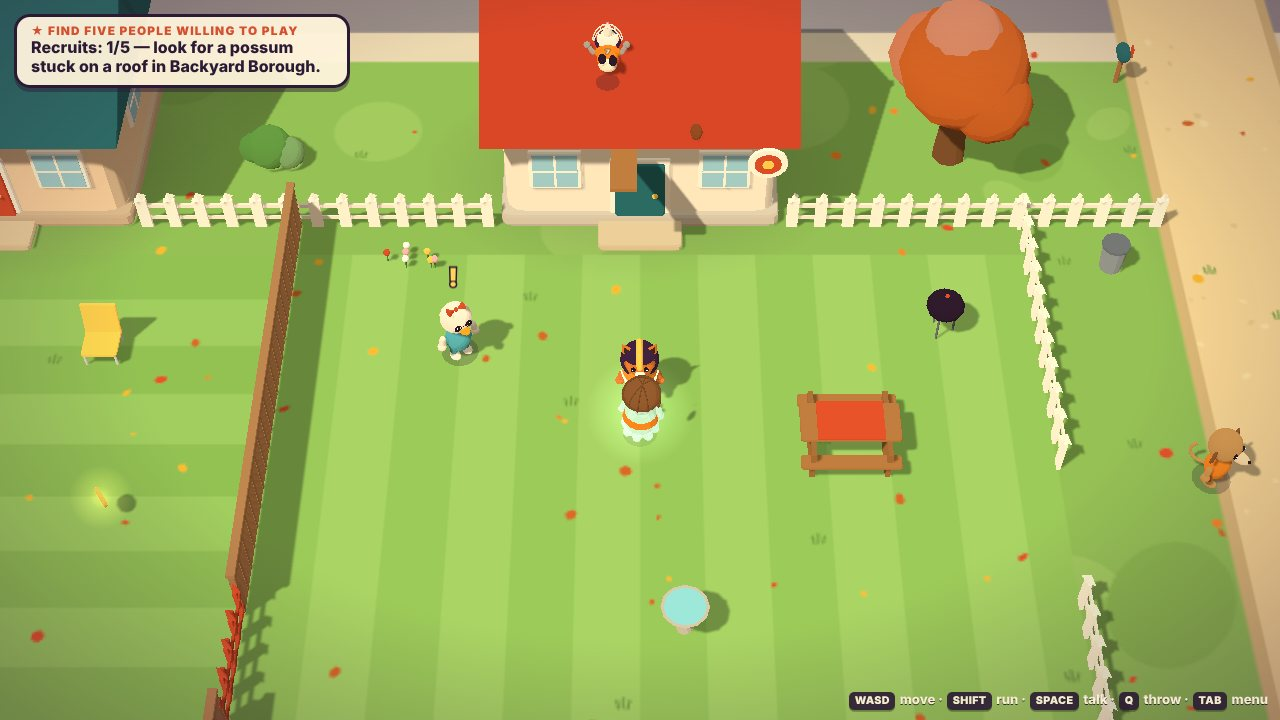
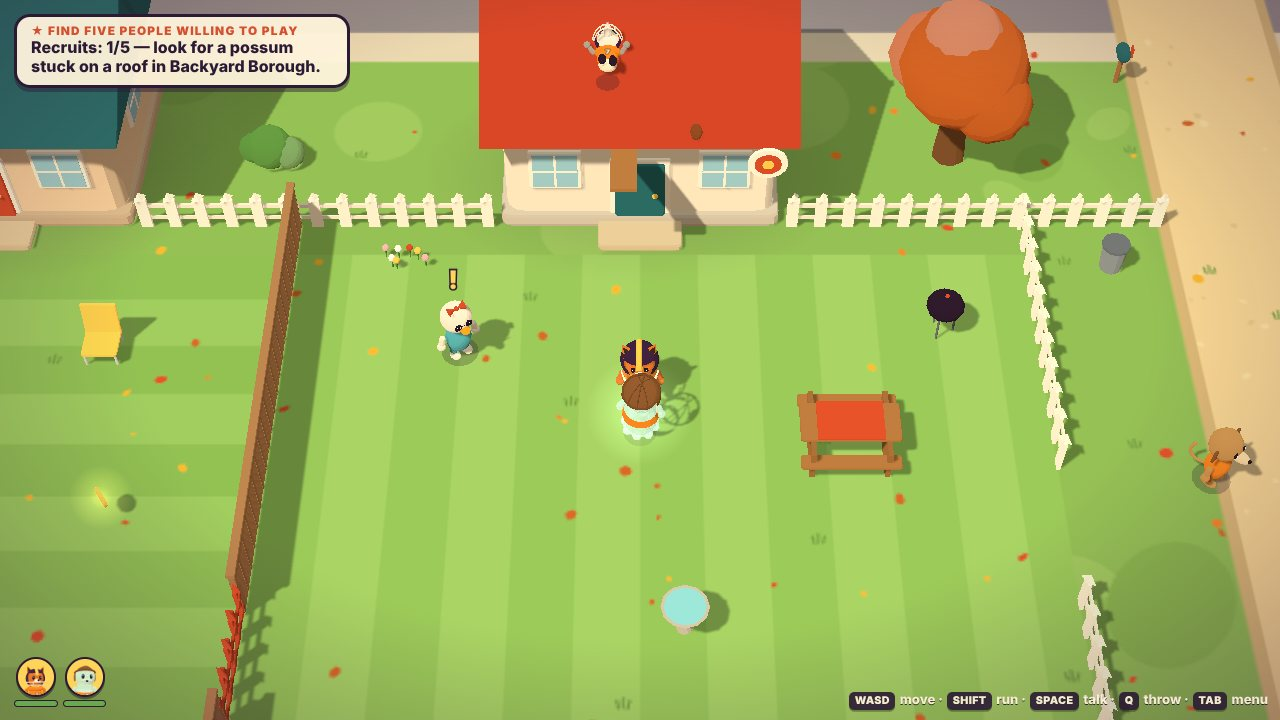
Fourth & Fable: memory leak fixes, linebacker default, HUD and QA additions
- fix: every uniformed character leaked two jersey-number geometries, and
  dialogue portraits leaked their throwaway model; character disposal is
  now thorough and shared geometry is flagged so it survives
- memory.cjs: asserts live GPU objects settle across area hops and drives
- on defense you start as the linebacker with the safety still deep
- AI teammates intercept contested passes less often; sharper opponents
  have surer hands; last two rivals retuned
- beaten roaming teams come back after sleeping or a bus ride
- letterboxed scenes hide the overworld HUD; dialogue.cjs drives the real
  dialogue UI through the clubhouse intro
- corn stalks use four shared heights; screenshots refreshed

Claude-Session: https://claude.ai/code/session_01C6rFEQ1N6SSTNxFfsVG42t

diff --git a/fable/src/art/characters.js b/fable/src/art/characters.js
@@ -3,7 +3,7 @@
 // animal, ghost, gnome, scarecrow, snowman, robot or the lantern mascot, and
 // animated by a small pose-blending animator (no keyframe data).
 import * as THREE from 'three';
-import { toon, flat, lit, sphere, cyl, cone, capsule, torus, box, rbox, circle, M, group, canvasTex, textTex, glowSprite, shade, bake } from './kit.js';
+import { toon, flat, lit, sphere, cyl, cone, capsule, torus, box, rbox, circle, plane, M, group, canvasTex, textTex, glowSprite, shade, bake, disposeTree } from './kit.js';
 import { TAU, clamp, lerp, damp, rand, wrapAngle } from '../core/util.js';
 
 const BUILDS = {
@@ -44,7 +44,7 @@ export const SPECIES = {
 
 const HC = 0.36; // head centre above the neck pivot
 const geoCache = new Map();
-const tubeArc = (key, make) => { let g = geoCache.get(key); if (!g) { g = make(); geoCache.set(key, g); } return g; };
+const tubeArc = (key, make) => { let g = geoCache.get(key); if (!g) { g = make(); g.userData.shared = true; geoCache.set(key, g); } return g; };
 
 function maskBar(y, rx, rz, t0, t1, r = 0.022) {
   return tubeArc(`mb:${y}:${rx}:${rz}:${t0}:${t1}:${r}`, () => {
@@ -399,9 +399,9 @@ export class Character {
       body.add(hip);
       if (spec.number !== undefined) {
         const nm = numberMat(spec.number, spec.numC || '#fff4dc', spec.numS || '#2b1a33');
-        const back = new THREE.Mesh(new THREE.PlaneGeometry(0.34, 0.34), nm);
+        const back = new THREE.Mesh(plane(0.34, 0.34), nm);
         back.position.set(0, 0.7 * B.ty, -0.31 * B.tz); back.rotation.y = Math.PI;
-        const front = new THREE.Mesh(new THREE.PlaneGeometry(0.28, 0.28), nm);
+        const front = new THREE.Mesh(plane(0.28, 0.28), nm);
         front.position.set(0, 0.68 * B.ty, 0.31 * B.tz);
         body.add(back, front);
       }
@@ -598,7 +598,7 @@ export class Character {
       body.add(band);
       if (spec.number !== undefined) {
         const nm = numberMat(spec.number, '#fff4dc', '#2b1a33');
-        const p = new THREE.Mesh(new THREE.PlaneGeometry(0.22, 0.22), nm); p.position.set(0, 0.74, 0.45); body.add(p);
+        const p = new THREE.Mesh(plane(0.22, 0.22), nm); p.position.set(0, 0.74, 0.45); body.add(p);
       }
     }
     const mk = (s) => {
@@ -632,7 +632,7 @@ export class Character {
     body.add(torso); this.torso = torso;
     if (spec.jersey) {
       body.add(M(cyl(0.345, 0.36, 0.3, 16, true), toon(spec.jersey, { side: THREE.DoubleSide }), 0, 0.98, 0));
-      if (spec.number !== undefined) { const p = new THREE.Mesh(new THREE.PlaneGeometry(0.22, 0.22), numberMat(spec.number, '#fff4dc', '#2b1a33')); p.position.set(0, 0.98, 0.36); body.add(p); }
+      if (spec.number !== undefined) { const p = new THREE.Mesh(plane(0.22, 0.22), numberMat(spec.number, '#fff4dc', '#2b1a33')); p.position.set(0, 0.98, 0.36); body.add(p); }
     }
     for (let i = 0; i < 2; i++) body.add(M(sphere(0.04, 6, 5), toon(0x2b2b36), 0, 0.5 + i * 0.2, 0.42 - i * 0.03, { shadow: false }));
     const mk = (s) => {
@@ -667,7 +667,7 @@ export class Character {
     body.add(torso); this.torso = torso;
     body.add(M(box(0.67 * B.tx, 0.07, 0.47 * B.tz), neonM, 0, 0.5 * B.ty, 0, { shadow: false }));
     if (spec.jersey) body.add(M(rbox(0.68 * B.tx, 0.3 * B.ty, 0.48 * B.tz, 0.08), toon(spec.jersey), 0, 0.8 * B.ty, 0));
-    if (spec.number !== undefined) { const p = new THREE.Mesh(new THREE.PlaneGeometry(0.24, 0.24), numberMat(spec.number, '#ffffff', '#1b1024')); p.position.set(0, 0.8 * B.ty, 0.245 * B.tz); body.add(p); }
+    if (spec.number !== undefined) { const p = new THREE.Mesh(plane(0.24, 0.24), numberMat(spec.number, '#ffffff', '#1b1024')); p.position.set(0, 0.8 * B.ty, 0.245 * B.tz); body.add(p); }
     const mk = (s) => {
       const arm = new THREE.Group();
       arm.add(M(cyl(0.065, 0.065, 0.3, 8), shell, 0, -0.16, 0));
@@ -692,7 +692,7 @@ export class Character {
     const head = new THREE.Group(); head.position.y = 1.02 * B.ty; body.add(head); this.head = head;
     const hc = group(0, 0.34, 0); head.add(hc); this.hc = hc;
     hc.add(M(rbox(0.8, 0.62, 0.6, 0.12), shell));
-    const screen = new THREE.Mesh(new THREE.PlaneGeometry(0.62, 0.44), new THREE.MeshBasicMaterial({ map: robotFace(neon, 'open'), toneMapped: false }));
+    const screen = new THREE.Mesh(plane(0.62, 0.44), new THREE.MeshBasicMaterial({ map: robotFace(neon, 'open'), toneMapped: false }));
     screen.position.set(0, 0, 0.305);
     hc.add(screen);
     this.screen = screen; this.neon = neon;
@@ -979,7 +979,7 @@ export class Character {
   }
 
   dispose() {
-    this.root.traverse((o) => { if (o.userData.baked && o.geometry) o.geometry.dispose(); });
+    disposeTree(this.root);          // baked meshes and one-off materials; shared geometry is left alone
     this.root.removeFromParent();
   }
 }

diff --git a/fable/src/data/teams.js b/fable/src/data/teams.js
@@ -108,17 +108,17 @@ export const TEAMS = {
     squad: squad(8.2, [{ name: 'COIN-OP', spec: robot(8) }, { name: 'TILT', spec: robot(74, 0xffd45a, 'big') }, { name: 'PIXEL', spec: robot(82, 0xb6f08a) }, { name: 'SPRITE', spec: robot(86, 0xb6f08a) }, { name: 'JOYSTICK', spec: robot(31) }]),
   },
   buzzers: {
-    name: 'Boardwalk Buzzers', short: 'BUZZ', color: '#4a3ad6', level: 9, iq: 0.74, xp: 150, coins: 0, rival: true,
+    name: 'Boardwalk Buzzers', short: 'BUZZ', color: '#4a3ad6', level: 9, iq: 0.8, xp: 150, coins: 0, rival: true,
     hazard: 'flicker', tackleStatus: ['glitch', 0.3],
     off: { pass: ['cpu_outs', 'cpu_deep', 'cpu_cross', 'cpu_slants'], run: ['cpu_dive', 'cpu_sweep'], runRate: 0.42 }, def: ['man_lock', 'zone_blanket', 'double_trouble', 'blitz_party', 'fence_line'],
     squad: squad(9, [{ name: 'HI-SCORE', spec: { kind: 'robot', build: 'big', neon: 0xff5ad0, jersey: 0x4a3ad6, number: 1 }, plus: { arm: 1.4 } }, { name: 'TILT', spec: { kind: 'robot', build: 'huge', neon: 0xffd45a, jersey: 0x4a3ad6, number: 74 }, plus: { str: 1.5 } }, { name: 'TURBO', spec: { kind: 'robot', neon: 0x58e6ff, jersey: 0x4a3ad6, number: 80 }, plus: { spd: 1.2 } }, { name: 'COMBO', spec: { kind: 'robot', neon: 0x58e6ff, jersey: 0x4a3ad6, number: 88 } }, { name: 'BOSS', spec: { kind: 'robot', neon: 0xb6f08a, jersey: 0x4a3ad6, number: 32 }, plus: { str: 1 } }]),
   },
   // ---------------------------------------------------------------- the Midnight Bowl
   graveyard: {
-    name: 'The Graveyard Shift', short: 'SHIFT', color: '#6a5a9a', level: 11, iq: 0.83, xp: 250, coins: 0, rival: true,
+    name: 'The Graveyard Shift', short: 'SHIFT', color: '#6a5a9a', level: 11, iq: 0.9, xp: 250, coins: 0, rival: true,
     hazard: 'fog', tackleStatus: ['spook', 0.3],
     off: { pass: ['cpu_outs', 'cpu_deep', 'cpu_cross', 'cpu_slants'], run: ['cpu_dive', 'cpu_sweep'], runRate: 0.42 }, def: ['man_lock', 'zone_blanket', 'double_trouble', 'blitz_party', 'fence_line'],
-    squad: squad(10.3, [{ name: 'The Captain Before', spec: ghost(1, 0xc9b6f2), plus: { arm: 1 } }, { name: 'Tombstone', spec: { ...ghost(78, 0xb6c9f2), scale: 1.25 }, plus: { str: 2 } }, { name: 'Wisp', spec: ghost(80, 0xd9c6ff), plus: { spd: 1 } }, { name: 'Shiver', spec: ghost(87, 0xd9c6ff) }, { name: 'Moan', spec: ghost(35, 0xc9b6f2) }]),
+    squad: squad(10.6, [{ name: 'The Captain Before', spec: ghost(1, 0xc9b6f2), plus: { arm: 1 } }, { name: 'Tombstone', spec: { ...ghost(78, 0xb6c9f2), scale: 1.25 }, plus: { str: 2 } }, { name: 'Wisp', spec: ghost(80, 0xd9c6ff), plus: { spd: 1 } }, { name: 'Shiver', spec: ghost(87, 0xd9c6ff) }, { name: 'Moan', spec: ghost(35, 0xc9b6f2) }]),
   },
   // ---------------------------------------------------------------- Backyard Blitz (2 on 2)
   acorns: {

diff --git a/fable/src/battle/battle.js b/fable/src/battle/battle.js
@@ -82,7 +82,7 @@ export class Battle extends Mode {
     this.foes = idx.map((i) => { const m = this.team.squad[i]; const e = this._ent(CPU, `cpu${i}`, m.name, m.spec, m.stats); e.slot = i; return e; });
     this.iq = this.team.iq;
     const lvs = [...new Set([...sq[0], ...sq[1]])].map((id) => charState(id).lv);
-    this.mateIq = 0.68 + Math.min(0.24, (lvs.reduce((a, b) => a + b, 0) / lvs.length - 1) * 0.034);
+    this.mateIq = 0.68 + Math.min(0.2, (lvs.reduce((a, b) => a + b, 0) / lvs.length - 1) * 0.034);
 
     // ball + catch rings + first-down marker
     this.ballMesh = buildFootball(1.5);
@@ -470,7 +470,8 @@ export class Battle extends Mode {
       this.userEnt = play.type === 'run' && play.carrier !== 'QB' ? byRole(this.off, play.carrier) : qb;
       this.userMode = 'pre';
     } else {
-      this.userEnt = byRole(this.def, dplay.S === 'robber' ? 'S' : 'S') || this.def[this.def.length - 1];
+      // you start as the linebacker — in the middle of things, with the safety still deep behind you
+      this.userEnt = byRole(this.def, 'LB') || byRole(this.def, 'S') || this.def[this.def.length - 1];
       if (this.size < 5) this.userEnt = this.def[this.def.length - 1];
       this.userMode = 'defender';
     }
@@ -1426,11 +1427,12 @@ export class Battle extends Mode {
     }
     if (this.auto && u && u.team === YOU && dist(u.x, u.z, b.to.x, b.to.z) < 1.8 && chance(0.3)) { this.interception(u, true); return; }
     // AI coverage contests it
-    let pCatch = 0.95 - Math.max(0, 1.7 - dDef) * 0.36 - off * 0.12 + (r.stats.hnd - 5) * 0.03;
+    let pCatch = 0.95 - Math.max(0, 1.7 - dDef) * 0.36 - off * 0.12 + (r.stats.hnd - 5) * 0.03 + (this.iq - 0.5) * 0.2;
     if (this.lightsOut > 0) pCatch -= 0.12;
     pCatch = clamp(pCatch, 0.2, 0.97);
     if (chance(pCatch)) { this.completed(r, 'cpu'); return; }
-    if (nd && dDef < 1.3 && nd.e.team === YOU && chance(0.22 + nd.e.stats.hnd * 0.03)) { this.interception(nd.e, false); return; }
+    // a teammate in tight coverage sometimes comes down with it (your own timed picks are the reliable way)
+    if (nd && dDef < 1.3 && nd.e.team === YOU && chance(0.07 + nd.e.stats.hnd * 0.015)) { this.interception(nd.e, false); return; }
     if (nd && dDef < 1.6) { nd.e.ch.play('catch'); this.pop(nd.e, 'BROKEN UP!', 'cool'); }
     this.incomplete('INCOMPLETE', b.to, r);
   }

diff --git a/fable/src/art/props.js b/fable/src/art/props.js
@@ -7,7 +7,7 @@ import { toon, flat, lit, sphere, cyl, cone, box, rbox, torus, circle, capsule, 
 import { TAU, rand, makeRng } from '../core/util.js';
 
 const geoCache = new Map();
-const cg = (key, make) => { let g = geoCache.get(key); if (!g) { g = make(); geoCache.set(key, g); } return g; };
+const cg = (key, make) => { let g = geoCache.get(key); if (!g) { g = make(); g.userData.shared = true; geoCache.set(key, g); } return g; };
 
 /** Gabled roof prism: ridge along x. */
 export function roofPrism(L, W, H) {
@@ -687,7 +687,7 @@ export function cornBlock(o = {}) {
   const nx = Math.max(1, Math.round(w / gap)), nz = Math.max(1, Math.round(d / gap));
   for (let i = 0; i < nx; i++) for (let j = 0; j < nz; j++) {
     const x = -w / 2 + (i + 0.5) * (w / nx) + r.range(-0.15, 0.15), z = -d / 2 + (j + 0.5) * (d / nz) + r.range(-0.15, 0.15);
-    const h = r.range(2.0, 2.6);
+    const h = 2.0 + Math.floor(r() * 4) * 0.2;
     g.add(M(cyl(0.05, 0.08, h, 5), toon(0x7fae4a), x, h / 2, z));
     g.add(M(cone(0.42, 1.3, 5), toon(0x9fc45a), x, h * 0.6, z, { shadow: false }));
     g.add(M(sphere(0.1, 5, 4), toon(0xf2c23c), x + 0.16, h * 0.62, z, { rz: -0.5, sy: 2.2, shadow: false }));

diff --git a/fable/src/game/town.js b/fable/src/game/town.js
@@ -154,6 +154,7 @@ export async function bed(w) {
   const tod = free ? [S().tod, 'day', 'dusk', 'night'][p] : S().tod;
   await G.fadeOut();
   restAll();
+  G.session.beaten.clear();        // a night's sleep brings the roaming teams back out
   S().tod = tod;
   G.audio.sfx('item');
   w.rebuild();
@@ -244,6 +245,7 @@ export async function travel(w) {
   if (d.id === 'fair' && questActive('welcome_back')) { finishQuest('welcome_back'); startQuest('fair'); }
   if (d.id === 'frost' && !S().quests.frost) startQuest('frost');
   if (d.id === 'neon' && !S().quests.neon) startQuest('neon');
+  G.session.beaten.clear();        // and so does a bus ride
   await w.goto(d.id, d.at ? d.at[0] : undefined, d.at ? d.at[1] : undefined, { sfx: 'door' });
 }
 

diff --git a/fable/styles.css b/fable/styles.css
@@ -214,3 +214,6 @@ p { margin: 0.3em 0; line-height: 1.35; font-weight: 600; }
 .party-strip .pm { width: 2.7em; }
 .party-strip img { width: 2.5em; height: 2.5em; border-radius: 50%; background: var(--gold); border: 0.14em solid var(--ink); display: block; margin: 0 auto; box-shadow: 0 0.14em 0 rgba(27,16,36,0.45); }
 .party-strip .bar { height: 0.46em; margin-top: 0.16em; background: rgba(27,16,36,0.55); }
+
+/* letterboxed scenes: put the HUD away */
+.cine-on .quest-box, .cine-on .wallet, .cine-on .party-strip, .cine-on .help-tag, .cine-on #prompt { display: none !important; }

diff --git a/fable/src/art/kit.js b/fable/src/art/kit.js
@@ -134,7 +134,7 @@ export function disposeTree(root) {
   const cachedGeos = new Set(geoCache.values());
   const cachedMats = new Set(matCache.values());
   root.traverse((o) => {
-    if (o.geometry && !cachedGeos.has(o.geometry)) o.geometry.dispose();
+    if (o.geometry && !cachedGeos.has(o.geometry) && !o.geometry.userData.shared) o.geometry.dispose();
     const mats = Array.isArray(o.material) ? o.material : o.material ? [o.material] : [];
     for (const m of mats) {
       if (cachedMats.has(m) || m.userData.shared) continue;

diff --git a/fable/src/art/portraits.js b/fable/src/art/portraits.js
@@ -59,7 +59,7 @@ export function portrait(key, spec, expr = 'open') {
     r.readRenderTargetPixels(rt, 0, 0, SIZE, SIZE, px);
     r.setRenderTarget(prevRT);
     r.setClearColor(prevColor, prevAlpha);
-    scene.remove(ch.root);
+    ch.dispose();
     const ctx = canvas.getContext('2d');
     const img = ctx.createImageData(SIZE, SIZE);
     for (let y = 0; y < SIZE; y++) {

diff --git a/fable/src/core/ui.js b/fable/src/core/ui.js
@@ -360,7 +360,7 @@ export class UI {
   }
 
   /** Cinematic letterbox bars. */
-  cine(on) { this.cineEl.classList.toggle('on', !!on); }
+  cine(on) { this.cineEl.classList.toggle('on', !!on); this.root.classList.toggle('cine-on', !!on); }
 
   /** Floating text anchored to a world position (or screen centre if pos is null). */
   pop(text, pos, cls = '', life = 1.1) {

diff --git a/fable/README.md b/fable/README.md
@@ -55,7 +55,8 @@ targets to hit switches from a distance — or at an opponent, to stun them. Wal
 your lineman up to anything heavy to **shove** it. Holes in fences are for your
 **smallest teammate**: you steer them alone on the far side.
 
-**Opponents are visible.** Slip past them, or pick a fight on your terms:
+**Opponents are visible.** Slip past them, or pick a fight on your terms (beaten
+teams stay beaten until you sleep or take the bus):
 
 - touch one from behind, or after bonking it with the ball → **Blindside** (you get
   the ball and your blockers get a head start);
